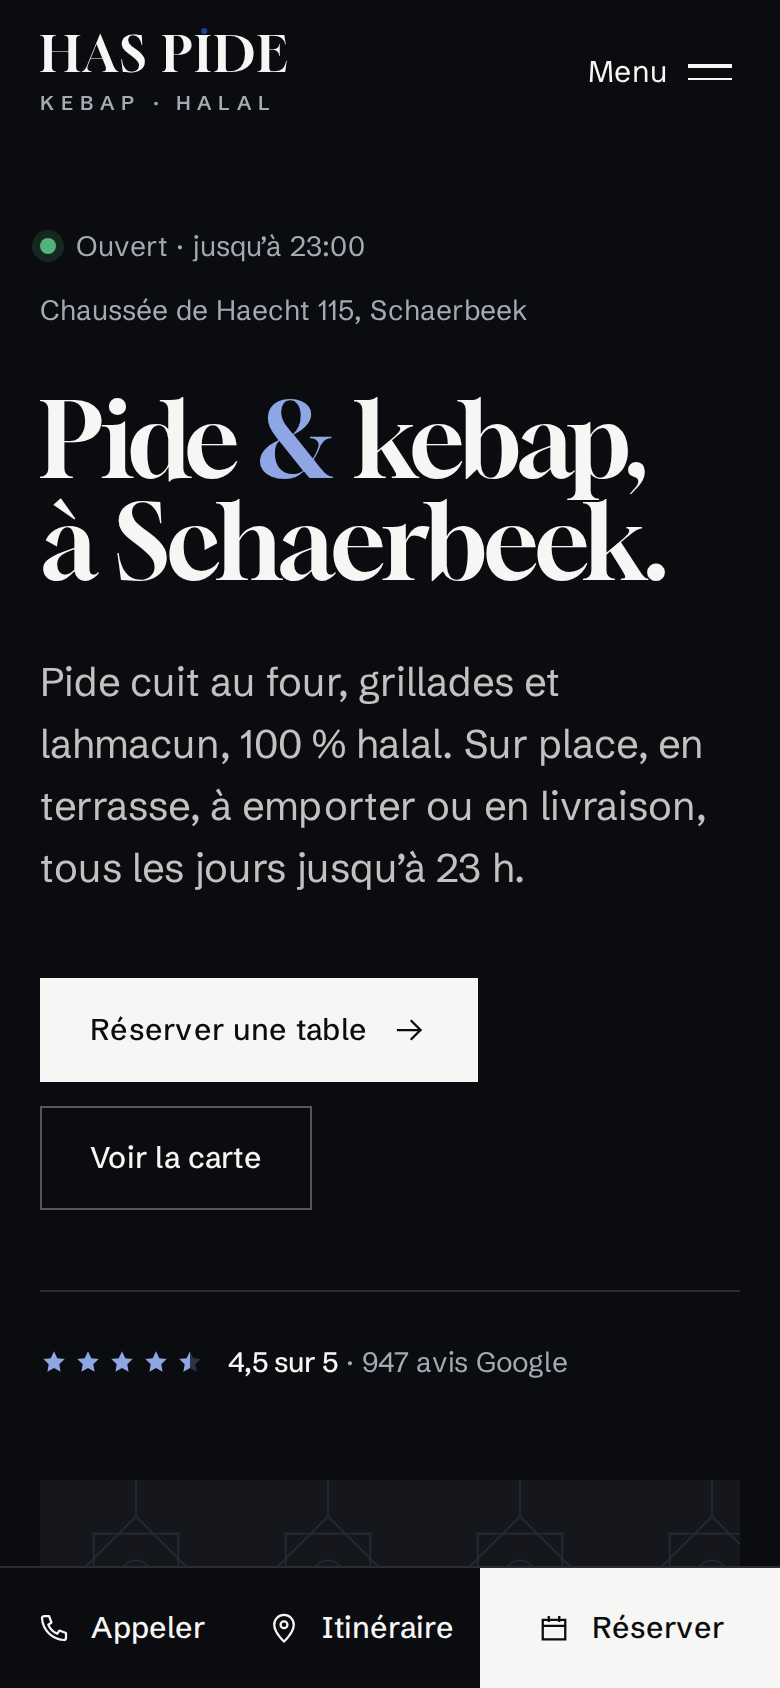
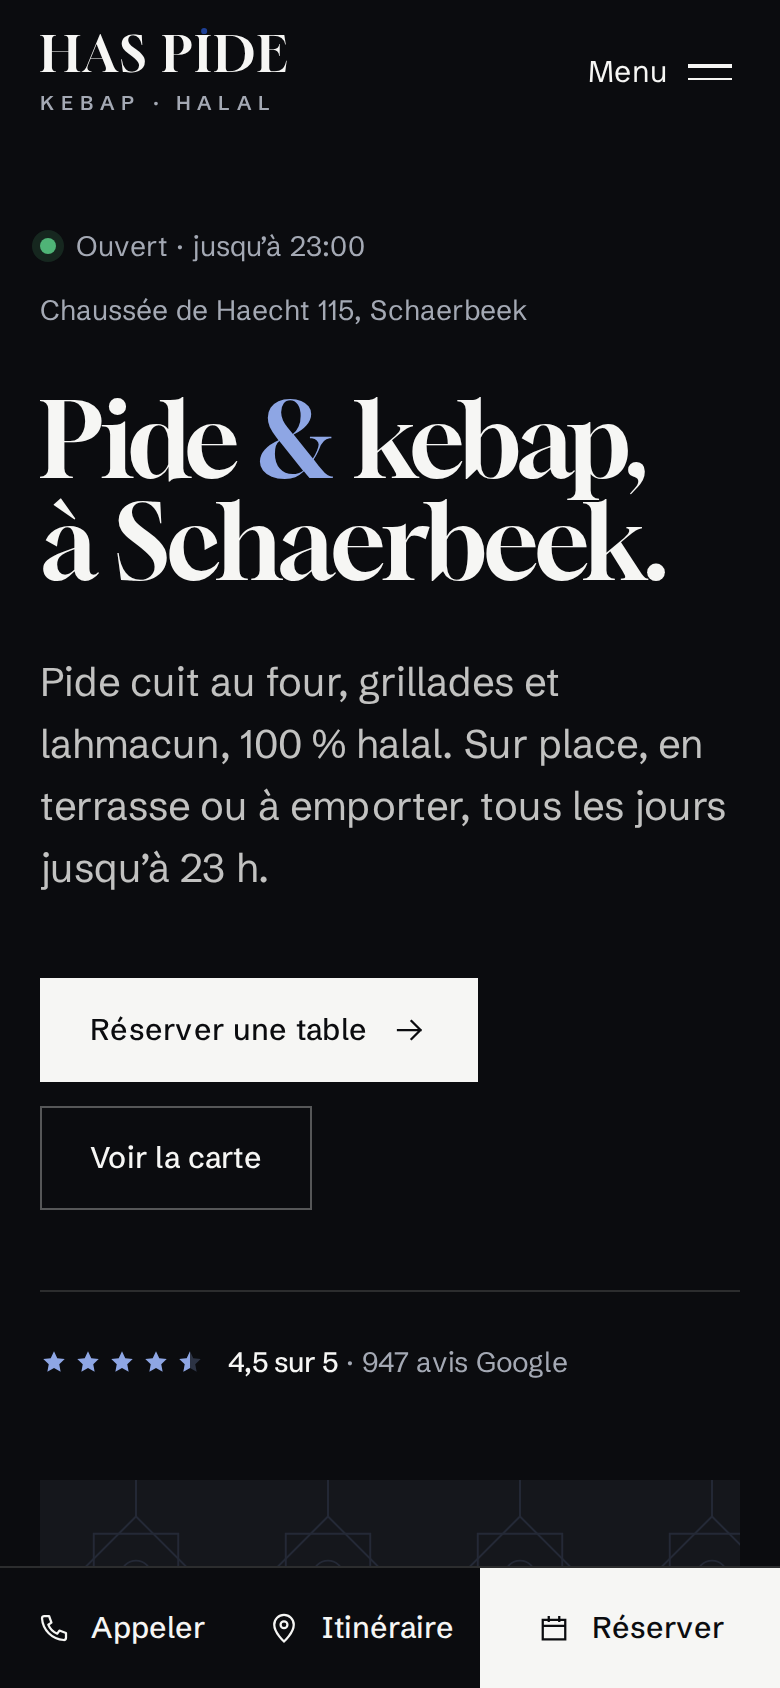
Hold delivery mentions until the restaurant confirms it
- Hero text, meta description, services heading and menu intro now
  say on site, terrace or takeaway
- The delivery service entry becomes online or phone booking
- README checklist lists where to restore delivery if confirmed

Claude-Session: https://claude.ai/code/session_01QPhaUTFBVEmqGSfxcAHHZ7

Changed region(s): [[0.0615, 0.4621, 0.9231, 0.5237]]

diff --git a/has-pide-kebap/apercu/index.html b/has-pide-kebap/apercu/index.html
@@ -4,7 +4,7 @@
   <meta charset="utf-8">
   <meta name="viewport" content="width=device-width, initial-scale=1, viewport-fit=cover">
   <title>Has Pide Kebap · Pide &amp; kebap halal à Schaerbeek</title>
-  <meta name="description" content="Pide cuit au four, kebap et lahmacun 100 % halal, Chaussée de Haecht 115 à Schaerbeek. Sur place, en terrasse, à emporter ou en livraison, tous les jours jusqu’à 23 h.">
+  <meta name="description" content="Pide cuit au four, kebap et lahmacun 100 % halal, Chaussée de Haecht 115 à Schaerbeek. Sur place, en terrasse ou à emporter, tous les jours jusqu’à 23 h.">
   <meta name="theme-color" content="#0B0C0F">
   <meta property="og:type" content="restaurant">
   <meta property="og:locale" content="fr_BE">
@@ -667,7 +667,7 @@ select.input { appearance: none; padding-right: 44px; background: #FFFFFF url("d
           <span>Chaussée de Haecht 115, Schaerbeek</span>
         </div>
         <h1 id="hero-title" class="rise rise--2">Pide <span class="amp">&amp;</span> kebap, à&nbsp;Schaerbeek.</h1>
-        <p class="hero__lead rise rise--3">Pide cuit au four, grillades et lahmacun, 100&nbsp;% halal. Sur place, en terrasse, à emporter ou en livraison, tous les jours jusqu’à 23&nbsp;h.</p>
+        <p class="hero__lead rise rise--3">Pide cuit au four, grillades et lahmacun, 100&nbsp;% halal. Sur place, en terrasse ou à emporter, tous les jours jusqu’à 23&nbsp;h.</p>
         <div class="hero__actions rise rise--4">
           <a class="btn btn--light" href="reserver.html">Réserver une table <svg class="icon" aria-hidden="true"><use href="#i-arrow"/></svg></a>
           <a class="btn btn--ghost-light" href="carte.html">Voir la carte</a>
@@ -848,12 +848,12 @@ select.input { appearance: none; padding-right: 44px; background: #FFFFFF url("d
         <a class="link" href="https://www.google.com/maps/search/?api=1&amp;query=Has+Pide+Kebap+Chauss%C3%A9e+de+Haecht+115+Schaerbeek" target="_blank" rel="noopener">Lire les avis <svg class="icon" aria-hidden="true"><use href="#i-out"/></svg></a>
       </div>
       <div class="services">
-        <h2 id="services-title">Sur place, à emporter ou livré.</h2>
+        <h2 id="services-title">Sur place, en terrasse ou à emporter.</h2>
         <ul class="services__list">
           <li class="service"><h3>Sur place</h3><p>En salle, avec ou sans réservation.</p></li>
           <li class="service"><h3>Terrasse</h3><p>Dehors, sur la Chaussée de Haecht, dès les beaux jours.</p></li>
           <li class="service"><h3>À emporter</h3><p>Commandez par téléphone, passez récupérer votre commande.</p></li>
-          <li class="service"><h3>Livraison</h3><p>Via nos plateformes de livraison partenaires.</p></li>
+          <li class="service"><h3>Réservation</h3><p>En ligne ou par téléphone, de 1 à 12 personnes.</p></li>
           <li class="service"><h3>Menu enfant</h3><p>Mini pide au fromage, frites et boisson.</p></li>
           <li class="service"><h3>100 % halal</h3><p>Toute la viande servie est halal, sans exception.</p></li>
         </ul>

diff --git a/has-pide-kebap/index.html b/has-pide-kebap/index.html
@@ -4,7 +4,7 @@
   <meta charset="utf-8">
   <meta name="viewport" content="width=device-width, initial-scale=1, viewport-fit=cover">
   <title>Has Pide Kebap · Pide &amp; kebap halal à Schaerbeek</title>
-  <meta name="description" content="Pide cuit au four, kebap et lahmacun 100 % halal, Chaussée de Haecht 115 à Schaerbeek. Sur place, en terrasse, à emporter ou en livraison, tous les jours jusqu’à 23 h.">
+  <meta name="description" content="Pide cuit au four, kebap et lahmacun 100 % halal, Chaussée de Haecht 115 à Schaerbeek. Sur place, en terrasse ou à emporter, tous les jours jusqu’à 23 h.">
   <meta name="theme-color" content="#0B0C0F">
   <meta property="og:type" content="restaurant">
   <meta property="og:locale" content="fr_BE">
@@ -105,7 +105,7 @@
           <span>Chaussée de Haecht 115, Schaerbeek</span>
         </div>
         <h1 id="hero-title" class="rise rise--2">Pide <span class="amp">&amp;</span> kebap, à&nbsp;Schaerbeek.</h1>
-        <p class="hero__lead rise rise--3">Pide cuit au four, grillades et lahmacun, 100&nbsp;% halal. Sur place, en terrasse, à emporter ou en livraison, tous les jours jusqu’à 23&nbsp;h.</p>
+        <p class="hero__lead rise rise--3">Pide cuit au four, grillades et lahmacun, 100&nbsp;% halal. Sur place, en terrasse ou à emporter, tous les jours jusqu’à 23&nbsp;h.</p>
         <div class="hero__actions rise rise--4">
           <a class="btn btn--light" href="reserver.html">Réserver une table <svg class="icon" aria-hidden="true"><use href="#i-arrow"/></svg></a>
           <a class="btn btn--ghost-light" href="carte.html">Voir la carte</a>
@@ -286,12 +286,12 @@
         <a class="link" href="https://www.google.com/maps/search/?api=1&amp;query=Has+Pide+Kebap+Chauss%C3%A9e+de+Haecht+115+Schaerbeek" target="_blank" rel="noopener">Lire les avis <svg class="icon" aria-hidden="true"><use href="#i-out"/></svg></a>
       </div>
       <div class="services">
-        <h2 id="services-title">Sur place, à emporter ou livré.</h2>
+        <h2 id="services-title">Sur place, en terrasse ou à emporter.</h2>
         <ul class="services__list">
           <li class="service"><h3>Sur place</h3><p>En salle, avec ou sans réservation.</p></li>
           <li class="service"><h3>Terrasse</h3><p>Dehors, sur la Chaussée de Haecht, dès les beaux jours.</p></li>
           <li class="service"><h3>À emporter</h3><p>Commandez par téléphone, passez récupérer votre commande.</p></li>
-          <li class="service"><h3>Livraison</h3><p>Via nos plateformes de livraison partenaires.</p></li>
+          <li class="service"><h3>Réservation</h3><p>En ligne ou par téléphone, de 1 à 12 personnes.</p></li>
           <li class="service"><h3>Menu enfant</h3><p>Mini pide au fromage, frites et boisson.</p></li>
           <li class="service"><h3>100 % halal</h3><p>Toute la viande servie est halal, sans exception.</p></li>
         </ul>

diff --git a/has-pide-kebap/apercu/carte.html b/has-pide-kebap/apercu/carte.html
@@ -644,7 +644,7 @@ select.input { appearance: none; padding-right: 44px; background: #FFFFFF url("d
         <h1>La carte.</h1>
       </div>
       <div class="page-head__side">
-        <p class="page-head__lead">Pide cuits au four, grillades, lahmacun et douceurs. Sur place, à emporter ou en livraison.</p>
+        <p class="page-head__lead">Pide cuits au four, grillades, lahmacun et douceurs. Sur place, en terrasse ou à emporter.</p>
         <ul class="page-head__facts">
           <li>Prix TTC</li>
           <li>Viande 100 % halal</li>

diff --git a/has-pide-kebap/carte.html b/has-pide-kebap/carte.html
@@ -82,7 +82,7 @@
         <h1>La carte.</h1>
       </div>
       <div class="page-head__side">
-        <p class="page-head__lead">Pide cuits au four, grillades, lahmacun et douceurs. Sur place, à emporter ou en livraison.</p>
+        <p class="page-head__lead">Pide cuits au four, grillades, lahmacun et douceurs. Sur place, en terrasse ou à emporter.</p>
         <ul class="page-head__facts">
           <li>Prix TTC</li>
           <li>Viande 100 % halal</li>

diff --git a/has-pide-kebap/README.md b/has-pide-kebap/README.md
@@ -81,6 +81,7 @@ E-mail reçu : objet `Réservation · Samedi 12 octobre · 20:00 · 4 personnes`
 - [ ] Logo : le logotype actuel est une proposition typographique
 - [ ] Plats, descriptions et prix (`index.html`, `carte.html`) : valeurs indicatives
 - [ ] Horaires : objet `HOURS` dans `assets/js/main.js` et tableau de `index.html`. Seule la fermeture à 23:00 est connue
+- [ ] Livraison : à confirmer avec le restaurant. Si oui, la remettre dans le texte du hero, la meta description et la liste des services (`index.html`), ainsi que dans l’introduction de `carte.html`
 - [ ] Réservation : relier `RESERVATION.endpoint` à l'adresse e-mail du restaurant, puis faire un envoi test
 - [ ] Réservation : nombre maximal de couverts (12), délai minimum, dernier créneau
 - [ ] Données personnelles : durée de conservation, service d'envoi, adresse e-mail de contact (`mentions-legales.html#donnees`)
